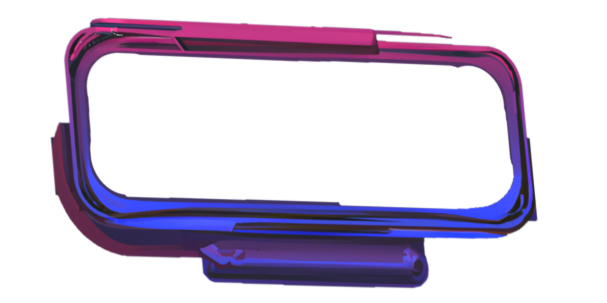
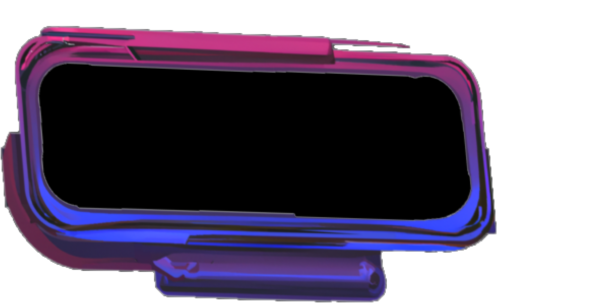
cssMask

diff --git a/src/components/Home/Home.js b/src/components/Home/Home.js
@@ -38,8 +38,6 @@ import CircleLoading2 from '../../assets/figma/loading2.gif'
 import dialogBassMonkey from '../../assets/figma/dialogBassMonkey2.png'
 import GifBike from '../../assets/figma/gifBike.gif'
 import LoveIcon from '../../assets/figma/loveIcon.png'
-import DialogTech from '../../assets/videos/techSkillsGif.gif'
-
 
 const Home = () => {
 
@@ -80,7 +78,7 @@ const Home = () => {
         autoPlay
         loop
         muted
-        className='backVid clip-animation' >
+        className='backVid' >
       </video>
       <div className='navContainer' >
         <nav>

diff --git a/src/index.css b/src/index.css
@@ -3,11 +3,12 @@ html {
 }
 
 body {
+  z-index: 0;
   margin: 0;
   font-family: 300 11px/1.4 'Helvetica Neue', 'sans-serif';
   /* color: #70a288; */
-  background: linear-gradient(#4151dc, #bc3a80);
-  z-index: 0;
+  background: white;
+  background: linear-gradient(#4151dc, #bc3a80, #4151dc);
   min-height: 1000px;
   /* overflow: hidden; */
   /* display: block; */

diff --git a/src/components/MovingTextTech/TechGif.js b/src/components/MovingTextTech/TechGif.js
@@ -1,7 +1,8 @@
 import React, { useEffect } from 'react'
-import DialogTech from '../../assets/videos/techSkillsGif.gif'
+import DialogTech from '../../assets/figma/dialogTech.png'
 import TechSkillsVideo from '../../assets/videos/techSkillsVideo.mp4'
 import './techGif.scss'
+
 
 const TechGif = () => {
 

diff --git a/src/App.js b/src/App.js
@@ -12,7 +12,7 @@ const App = () => {
         <NavBar />
         <StrictMode>
           <Routes>
-            <Route path='/' element={<Home />} />
+            <Route path='*' element={<Home />} />
           </Routes>
         </StrictMode>
       </BrowserRouter>

diff --git a/src/components/MovingTextTech/techGif.scss b/src/components/MovingTextTech/techGif.scss
@@ -15,7 +15,7 @@ transform: rotate(0deg);
   z-index: 10;
   position: absolute;
   width: 100px;
-  height: 52.1px;
+  height: 51.4px;
 left: 734px;
-top: 206.4px;
+top: 206.6px;
 }

diff --git a/src/components/Home/home.scss b/src/components/Home/home.scss
@@ -5,6 +5,8 @@
   object-fit: cover;
   height: 100%;
   width: 100%;
+  mask: url('../../assets/figma/logoPrincipal2.png'); 
+  // mask-repeat: no-repeat;
  }
 
 .homeContainer {
